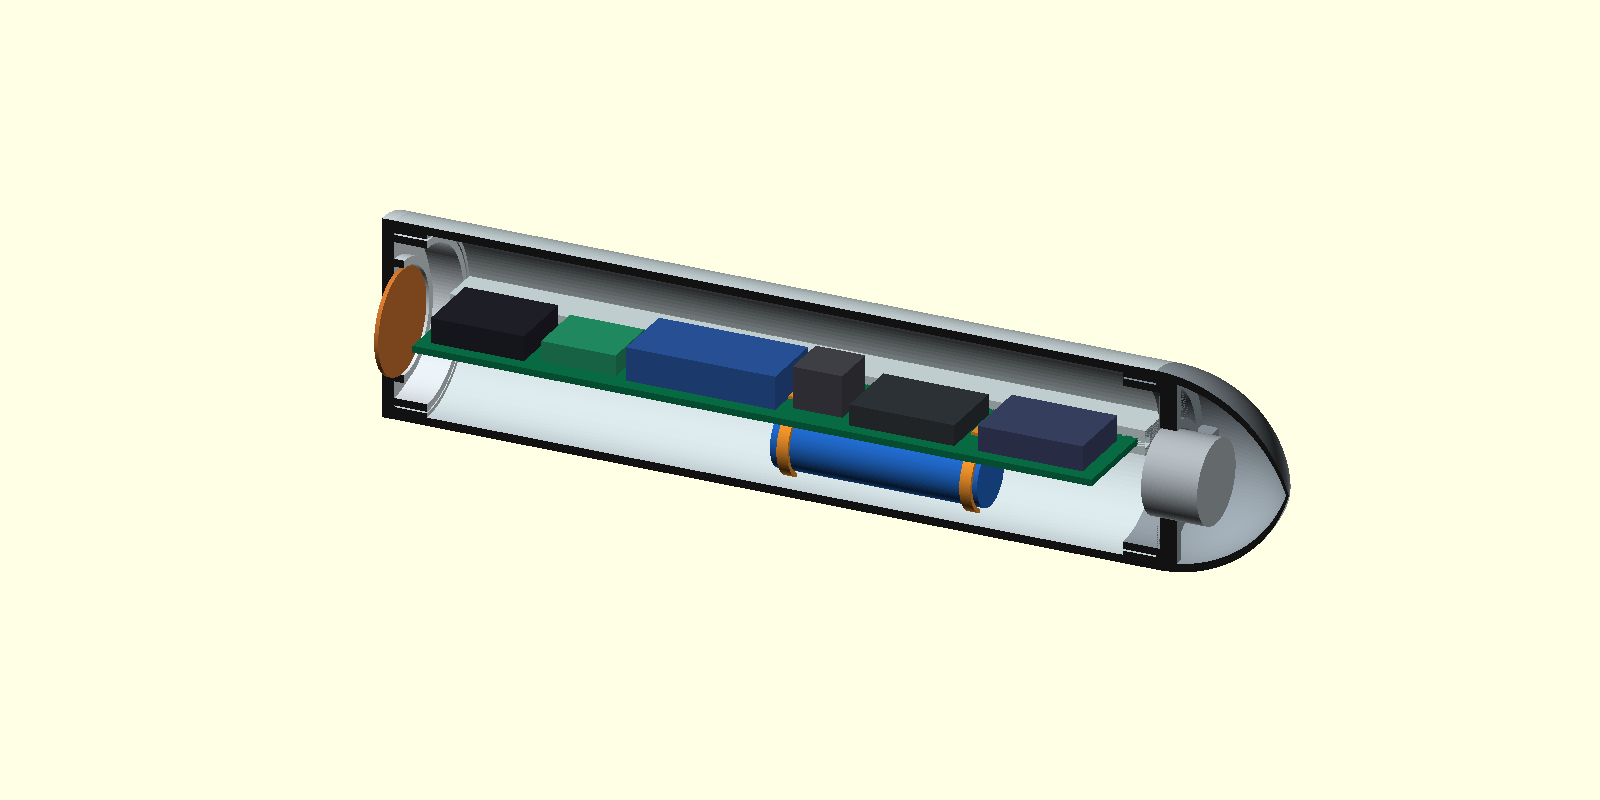
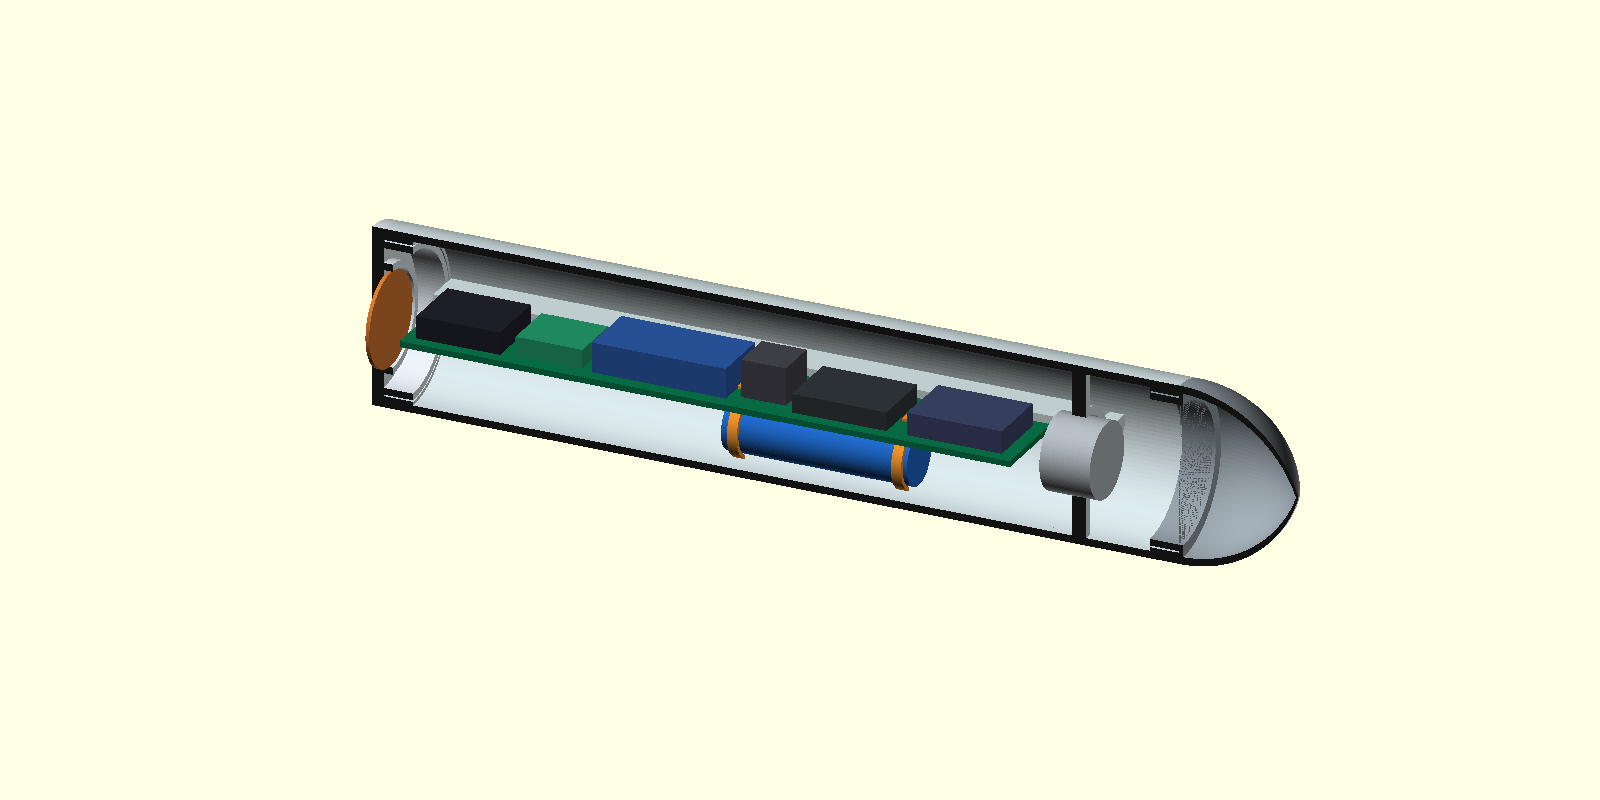
Move actuator inside capsule body

Changed region(s): [[0.2188, 0.25, 0.8125, 0.7188]]

diff --git a/hardware/capsula_3d/README.md b/hardware/capsula_3d/README.md
@@ -2,13 +2,13 @@
 
 Interpretación del croquis y de la aclaración del usuario: **cuerpo cilíndrico recto**, tapa roscada con junta tórica en el extremo de carga y ojiva circular roscada para alojar el lastre en el otro extremo. La PCB va longitudinalmente con la batería debajo. Abrir `capsula_conceptual.scad` con OpenSCAD. El modo `corte` muestra el interior; `conjunto`, `cuerpo`, `tapa` y `punta` permiten examinar el conjunto y sus piezas.
 
-La [vista en corte](capsula_corte.png) muestra la geometría y los bloques de referencia; la bobina naranja se representa junto a la tapa, la batería azul bajo la PCB y el actuador en la punta.
+La [vista en corte](capsula_corte.png) muestra la geometría y los bloques de referencia; la bobina naranja se representa junto a la tapa, la batería azul bajo la PCB y el actuador **dentro del cilindro**, antes de la ojiva.
 
 El ESP32 se ha trasladado al extremo de la tapa para orientar su USB-C hacia ella; el bloque no modela el conector. La bobina puede bloquear el acceso: falta comprobar el espacio del cable y definir si se aparta la bobina o se extrae el conjunto. Dos abrazaderas naranjas con pestañas y aberturas simbólicas representan la idea del croquis para sujetar la batería bajo la PCB. Sus pestañas están en los espacios entre boost y condensador y entre IMU y DRV8833, no bajo las envolventes mostradas. No hay un mecanismo de clic validado ni garantía de elasticidad, retención axial o aislamiento; faltan contactos, dimensionado de ranuras y comprobación de pines y cobre.
 
 **No es una cápsula terminada ni estanca.** Se representan encajes lisos simbólicos en ambas uniones y una junta tórica con ranura ilustrativa en la tapa: **todavía no hay roscas helicoidales** ni dimensiones de sellado verificadas. La sección transversal de la junta se superpone intencionadamente a la superficie del cuerpo en la vista ensamblada: no es una simulación validada de compresión. El diámetro, sección, alojamiento, compresión y material de la junta, el tipo de rosca, sentido, paso, holguras y sellado deben diseñarse para las piezas y el proceso de impresión. La unión de la ojiva también requiere una solución de estanqueidad.
 
-La ojiva hueca reserva espacio para el **lastre**, pero no modela su forma, masa ni fijación. El cilindro gris es una envolvente ilustrativa del actuador, no el lastre ni la parte móvil. Su ubicación exacta respecto al lastre y al centro de masas sigue pendiente; los bloques de componentes no son modelos reales.
+La ojiva hueca reserva espacio para el **lastre**, pero no modela su forma, masa ni fijación. El cilindro gris es una envolvente ilustrativa del actuador, situado fuera de la ojiva y dentro del cuerpo principal; no representa su parte móvil. Su ubicación exacta respecto al lastre y al centro de masas sigue pendiente; los bloques de componentes no son modelos reales.
 
 ## Primer prototipo de guías en PETG translúcido
 
@@ -16,7 +16,7 @@ El material previsto es **PETG translúcido**. Las holguras son valores de parti
 
 - **PCB:** dos rieles longitudinales integrados en el cuerpo, con ranuras de 2,0 mm de alto para una placa nominal de 1,6 mm. La profundidad de cada ranura debe revisarse con el contorno final y las tolerancias. La retención axial, la entrada del montaje y la compatibilidad con pines, soldaduras, cables y clips aún no están resueltas.
 - **Bobina:** corona de centrado junto a la tapa, diámetro interior nominal 25,8 mm para la bobina anunciada de 25 mm. No tiene retención, alojamiento del ferrito, salida de cables ni solución para el USB-C; puede obstruir el conector. No forzar ni dañar los hilos finos de la bobina.
-- **Actuador:** aro de centrado en la base de la ojiva, diámetro interior nominal 20,8 mm, con nervios a la carcasa. Solo representa una posible sujeción de la **parte fija**: no se conocen todavía sus superficies de montaje, cables ni holguras reales. No es una guía de la parte móvil, no aporta topes ni detecta posición, y no evita que choque con el lastre o la ojiva.
+- **Actuador:** aro de centrado en el interior del cilindro, diámetro interior nominal 20,8 mm, con nervios a la pared del cuerpo; no forma parte de la ojiva. Solo representa una posible sujeción de la **parte fija**: no se conocen todavía sus superficies de montaje, cables ni holguras reales. No es una guía de la parte móvil, no aporta topes ni detecta posición, y no garantiza que la carrera permanezca libre.
 
 El usuario puede imprimir en seco las piezas de prueba independientes para comprobar dimensiones **sin electrónica ni batería**:
 
@@ -32,19 +32,19 @@ Estos STL son **cupones de ajuste**, no componentes funcionales ni un cierre. No
 
 | Elemento | Valor | Alcance |
 |---|---:|---|
-| Cuerpo tubular | 184 largo, 48 diámetro exterior, pared principal 2 | Hipótesis inicial; diámetro interior 44 en el tramo central, 42 en los 8 mm de cada extremo |
+| Cuerpo tubular | 214 largo, 48 diámetro exterior, pared principal 2 | Hipótesis inicial; diámetro interior 44 en el tramo central, 42 en los 8 mm de cada extremo |
 | Ojiva | 32 de largo exterior, diámetro de base 48 | Arco circular tangente al cilindro; espesor radial nominal 2; encaje liso ilustrativo, sin rosca |
 | Tapa | Disco de espesor 3 | Encaje liso ilustrativo y ranura para junta, sin rosca |
 | Junta tórica | Diámetro medio 44, sección 2 | Modelo y ranura ilustrativos, compresión y estanqueidad no verificadas |
-| Longitud total exterior | 219 | 3 de tapa + 184 de cuerpo + 32 de ojiva |
+| Longitud total exterior | 249 | 3 de tapa + 214 de cuerpo + 32 de ojiva |
 | PCB | 164 × 24 × 1,6 | Maqueta mecánica provisional, no PCB terminada |
 | Batería | Cilindro 50 × Ø14 | Dimensiones nominales, sin terminales ni soporte |
 | Bobina | Ø25 × 1 | Espesor ilustrativo, no medido |
 | Actuador | Ø20 × 13,5 | Solo envolvente aproximada del cuerpo; no incluye fijación ni carrera |
 
-El PCB empieza 10 mm después del inicio del tubo y acaba 10 mm antes de su extremo: los encajes ilustrativos entran 8 mm por cada extremo, quedando 2 mm axiales respecto a la placa desnuda. La batería se dibuja bajo la PCB, con su eje 9,5 mm por debajo de su plano medio. Las alturas de los bloques electrónicos son **suposiciones**; la holgura, el aislamiento de la batería, los conectores, los radios de cable, la antena y el acceso al USB no están verificados. El condensador está representado por un bloque de 12 mm reservado, no por una medida confirmada.
+Tomando `x = 0` en el inicio del cuerpo, la PCB ocupa `x = 10–174 mm`; las guías terminan en `x = 179 mm`. La envolvente indicativa del actuador ocupa `x = 181–194,5 mm` y el aro de centrado `x = 185–189 mm`. La unión de la ojiva empieza en `x = 206 mm`, antes del fin del cuerpo en `x = 214 mm`. Estos 30 mm adicionales respecto al diseño anterior son una **reserva provisional**, no el espacio validado para montaje, cableado ni recorrido. La batería se dibuja bajo la PCB, con su eje 9,5 mm por debajo de su plano medio. Las alturas de los bloques electrónicos son **suposiciones**; la holgura, el aislamiento de la batería, los conectores, los radios de cable, la antena y el acceso al USB no están verificados. El condensador está representado por un bloque de 12 mm reservado, no por una medida confirmada.
 
-La longitud de 164 mm procede de la primera maqueta de la portadora: puede cambiar al diseñar huellas, conectores, PCB y antena. El diámetro exterior de 48 mm y el resto de las dimensiones de carcasa son propuestas, no resultados optimizados. El posicionamiento en la punta no establece la línea de acción del actuador con respecto al centro de masas ni garantiza que produzca el ángulo deseado. La dimensión y orientación exactas del actuador, sus cables, guía y posiciones extremas deberán verificarse.
+La longitud de 164 mm procede de la primera maqueta de la portadora: puede cambiar al diseñar huellas, conectores, PCB y antena. El diámetro exterior de 48 mm y el resto de las dimensiones de carcasa son propuestas, no resultados optimizados. El aro actual es coaxial con la cápsula, solo para estudiar el alojamiento; esa posición no establece la línea de acción respecto al centro de masas ni garantiza que produzca el ángulo deseado. La orientación y sentido de la parte móvil, sus superficies de fijación, cables, guía y posiciones extremas deberán verificarse con el actuador real antes de definir la sujeción.
 
 La geometría no demuestra flotación, estabilidad ni resistencia. Es necesario medir masas y envolventes completas, definir cierres y estanqueidad, comprobar la flotación en los fluidos de ensayo y reajustar el lastre. Antes de fabricar o sumergir componentes deben revisarse también la batería, la carga inalámbrica, el calentamiento y la etapa de accionamiento.
 

diff --git a/docs/MATERIALES_Y_ENSAMBLAJES.md b/docs/MATERIALES_Y_ENSAMBLAJES.md
@@ -53,9 +53,9 @@ La posición de la batería bajo la PCB y la distribución de los módulos deben
 
 Para una vista esquemática del conjunto y las dimensiones pendientes, consultar la [distribución interior preliminar](DISTRIBUCION_INTERIOR_CAPSULA.md).
 
-Para una ampliación futura se propone reservar espacio en la punta lastrada para el **actuador y su amplificador o etapa de accionamiento**. La ficha de la variante seleccionada 20VC001 lo describe como bobina de voz: la fuerza puede cambiar de sentido al invertir la corriente, por lo que un puente H con control de corriente es una opción a estudiar. La parte móvil se desplaza libremente sin alimentación y no se aprecia un muelle a primera vista; por tanto, el retorno sin corriente no está garantizado. El resumen automático del anuncio menciona un muelle, pero no se toma como prueba de que esté presente.
+Se reserva espacio dentro del cuerpo, junto a la ojiva lastrada, para el **actuador** y se prevé su etapa de accionamiento en la PCB. La ficha de la variante seleccionada 20VC001 lo describe como bobina de voz: la fuerza puede cambiar de sentido al invertir la corriente, por lo que un puente H con control de corriente es una opción a estudiar. La parte móvil se desplaza libremente sin alimentación y no se aprecia un muelle a primera vista; por tanto, el retorno sin corriente no está garantizado. El resumen automático del anuncio menciona un muelle, pero no se toma como prueba de que esté presente.
 
-Para continuar el experimento se selecciona como configuración de trabajo un **recorrido guiado de la masa móvil paralelo al eje longitudinal de la cápsula**, con el actuador en la punta lastrada. La selección se apoyó en una simulación exploratoria y no demuestra que esa orientación sea óptima para todos los fluidos. Registrar la posición del actuador y el sentido de movimiento respecto a los ejes de la cápsula.
+Para continuar el experimento se selecciona como configuración de trabajo un **recorrido guiado de la masa móvil paralelo al eje longitudinal de la cápsula**. El actuador se ubicará dentro del cuerpo cilíndrico, próximo a la ojiva, que se reserva para el lastre. La selección se apoyó en una simulación exploratoria y no demuestra que esa orientación sea óptima para todos los fluidos. Registrar la posición del actuador y el sentido de movimiento respecto a los ejes de la cápsula.
 
 La ficha 20VC001 indica **3 mm de carrera**, mientras otra imagen del anuncio indica 4 mm sin identificar con claridad la variante. Se descarta la hipótesis previa de 5 mm como carrera de diseño hasta confirmar mecánicamente el límite útil de la unidad y las condiciones especificadas. La ficha indica **1,8 mH ±10 %**, frente al dato preliminar de 4,8 mH: no se consideran equivalentes y hay que verificar modelo y medición. La masa móvil no se conoce por separado; los 25 g son del conjunto y la altura de 12,2 mm no es su carrera.
 

diff --git a/docs/DISTRIBUCION_INTERIOR_CAPSULA.md b/docs/DISTRIBUCION_INTERIOR_CAPSULA.md
@@ -23,7 +23,7 @@ Propuesta para diseñar la cápsula impresa en 3D **a partir de los componentes*
 - El ESP32 se sitúa en el extremo de la PCB próximo a la tapa, con el USB-C orientado hacia ella. Siguen el receptor/cargador, boost, IMU y etapa DRV8833. Se diseñará una PCB portadora para soldar los módulos; en los que no traigan pines se colocarán pines adecuados. El dibujo no presupone conexiones eléctricas en serie. La bobina puede obstruir el USB: comprobar el conector y la posibilidad de apartarla o extraer la PCB; no se garantiza acceso con la cápsula montada.
 - La batería se sitúa bajo la PCB y cerca del extremo lastrado, donde quepa sin invadir el actuador. La orientación «bajo» se refiere a la cara del soporte, no a una dirección vertical fija durante la flotación.
 - El usuario propone dos abrazaderas bajo la PCB con pestañas que encajen en huecos libres entre componentes. Se reservan espacios entre boost y condensador y entre IMU y DRV8833; la representación es esquemática. Ranuras, movimiento de las pestañas, pines, cobre, elasticidad, retención axial, aislamiento y contactos de la batería quedan por diseñar.
-- El actuador se sitúa en la punta, sujeto por su parte fija. Su masa móvil se guía paralela al eje `x` de la cápsula, con espacio para el recorrido y sin tocar carcasa, cables o lastre. La etapa de accionamiento se propone cerca del actuador, pero su ubicación depende de sus dimensiones, temperatura e interferencias.
+- El actuador se sitúa dentro del cuerpo cilíndrico, cerca de la unión con la ojiva; esta última se reserva para el lastre. Se prevé fijar su parte fija y guiar su masa móvil paralelamente al eje `x`, sin tocar carcasa, cables o lastre; la guía y la sujeción aún no están diseñadas. La etapa de accionamiento se propone cerca del actuador, pero su ubicación depende de sus dimensiones, temperatura e interferencias.
 - El lastre debe ser fijable y, si es posible, ajustable; su posición final se determina con el conjunto real y no se supone que coincida con el espacio inmediatamente detrás del actuador.
 
 Para el objetivo de generar ángulo también importa la **posición transversal de la guía respecto al centro de masas conjunto**: un recorrido longitudinal alineado con él no produce par instantáneo directo alrededor de ese centro en un modelo ideal. El centro de masas, el empuje y sus cambios durante el movimiento se deben medir o estimar con el montaje real; la disposición axial por sí sola no garantiza una excitación angular suficiente.

diff --git a/docs/ESQUEMA_INICIAL_CONEXIONES.md b/docs/ESQUEMA_INICIAL_CONEXIONES.md
@@ -38,7 +38,7 @@ Esta imagen sirve para planificar la posición del módulo, no para validar sus 
 
 La disposición física prevista, desde la tapa hacia el extremo lastrado, es **ESP32 → receptor/cargador → boost → IMU → DRV8833**. El USB-C apunta hacia la tapa; comprobar su acceso y la posible interferencia con la bobina. No implica que los módulos estén conectados eléctricamente en serie: el ESP32 se comunica con la IMU por I²C. La distribución y las distancias se comprobarán con las dimensiones, la interferencia y las restricciones de antena reales; véase [Materiales y ensamblajes](MATERIALES_Y_ENSAMBLAJES.md).
 
-En una futura ampliación se prevé situar el actuador y su amplificador o etapa de accionamiento en la punta lastrada. Su tipo, alimentación y señales de control están por definir; no forman parte del circuito inicial ni se ha asignado aún una conexión eléctrica.
+El actuador se prevé dentro del cuerpo cilíndrico, próximo a la ojiva que aloja el lastre. Su etapa de accionamiento se reserva en la PCB; la alimentación y señales de control están por definir y no se ha asignado aún una conexión eléctrica.
 
 ### Candidato de puente H para el actuador
 
